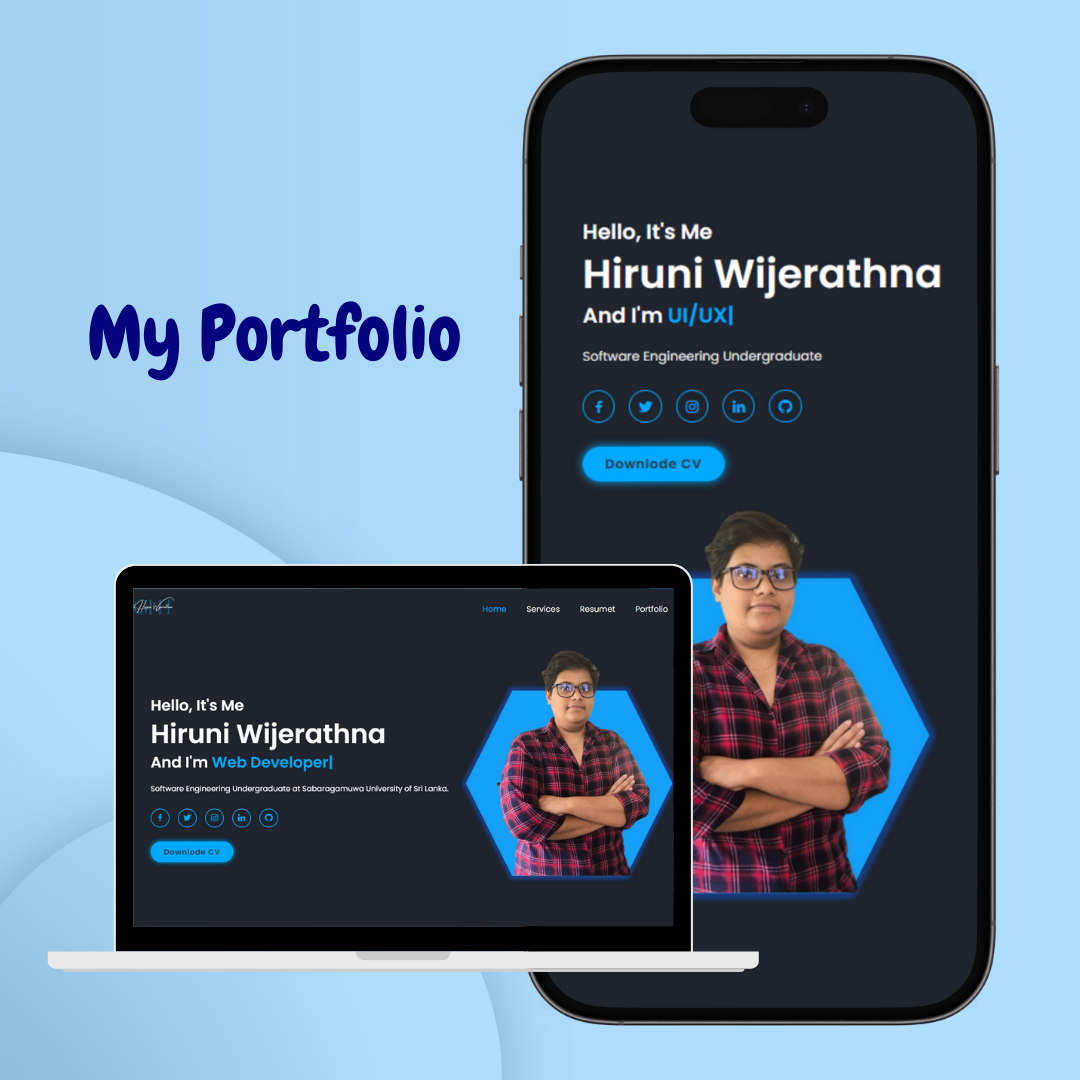
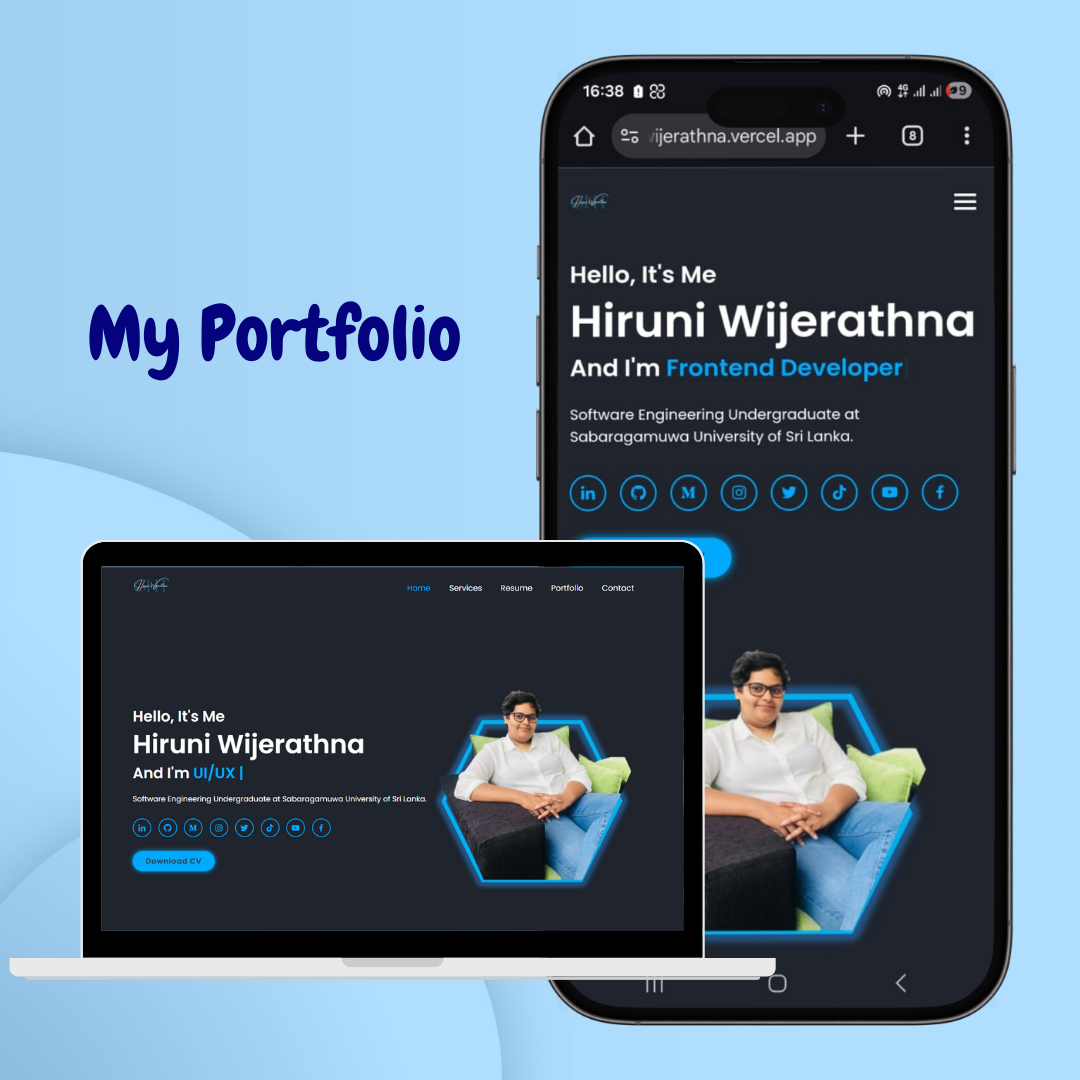
add

Changed region(s): [[0.0, 0.0306, 0.9472, 0.9472], [0.5806, 0.0917, 0.7639, 0.1528], [0.825, 0.1222, 0.8556, 0.1528]]

diff --git a/src/component/Portfolio/Development/Development.js b/src/component/Portfolio/Development/Development.js
@@ -130,10 +130,10 @@ function Development() {
         <img src={img8} alt="My Portfolio" />
         <div className="portfolio-layer">
           <h4>My Portfolio</h4>
-                <p>I design and develop responsive, interactive websites using HTML, CSS, and JavaScript. My portfolio showcases projects focused on clean design, user experience, and functionality.</p>
+                <p>A React-based personal portfolio website showcasing my projects, skills, resume, and contact information with smooth animations and responsive design.</p>
                 <div class="social-media-2">
-                    <a href="https://hiruniwijerathna.github.io/My-profile/"><i class='bx bx-link'></i></a>
-                <a href="https://github.com/HiruniWijerathna/My-profile"><i class='bx bxl-github' ></i></a>
+                    <a href="https://hiruniwijerathna.vercel.app/"><i class='bx bx-link'></i></a>
+                <a href="https://github.com/HiruniWijerathna/My_Web"><i class='bx bxl-github' ></i></a>
                 </div>
         </div>
       </div>
